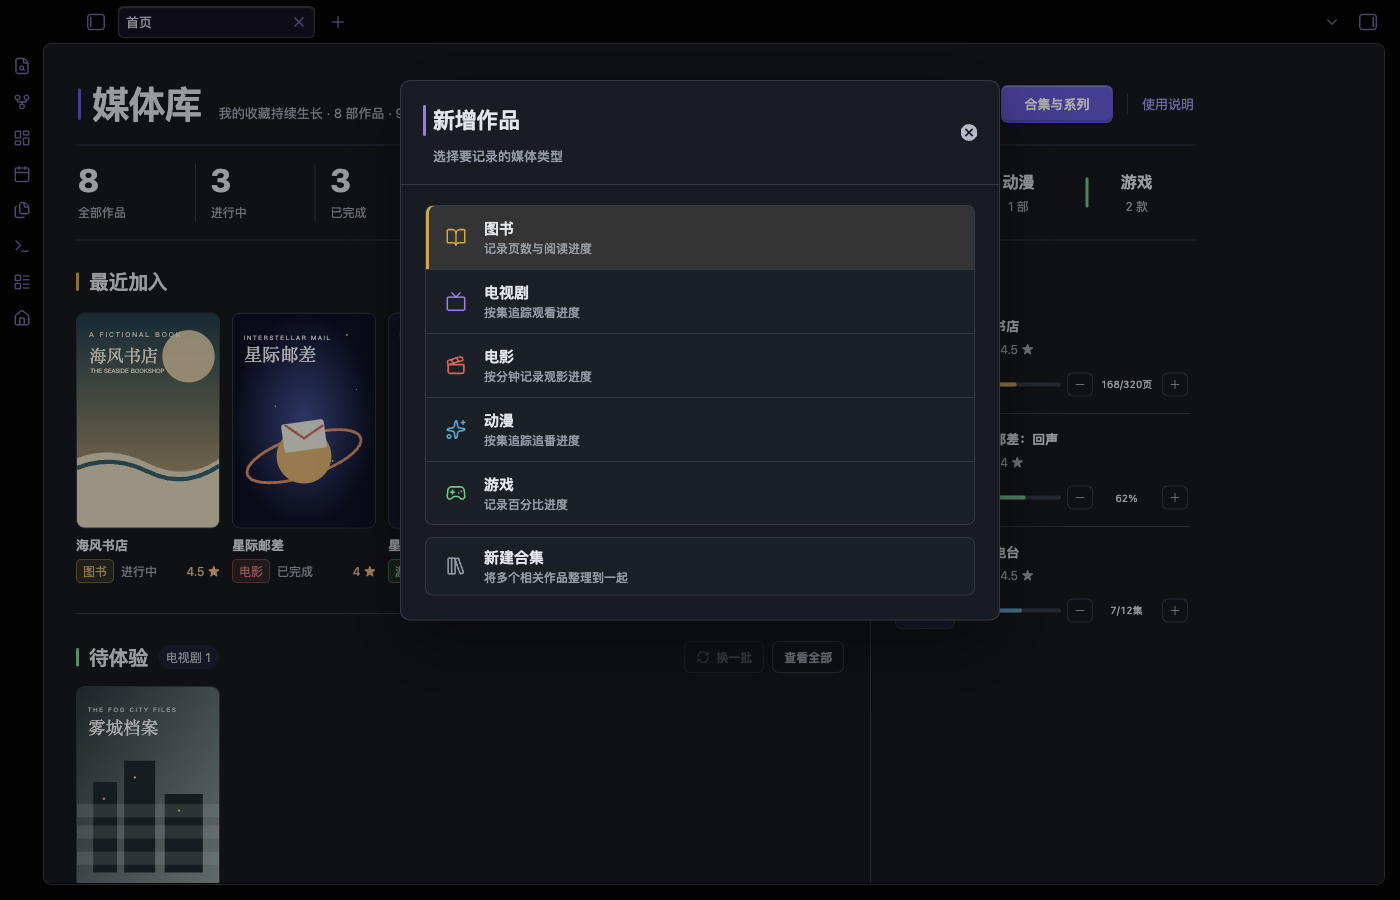
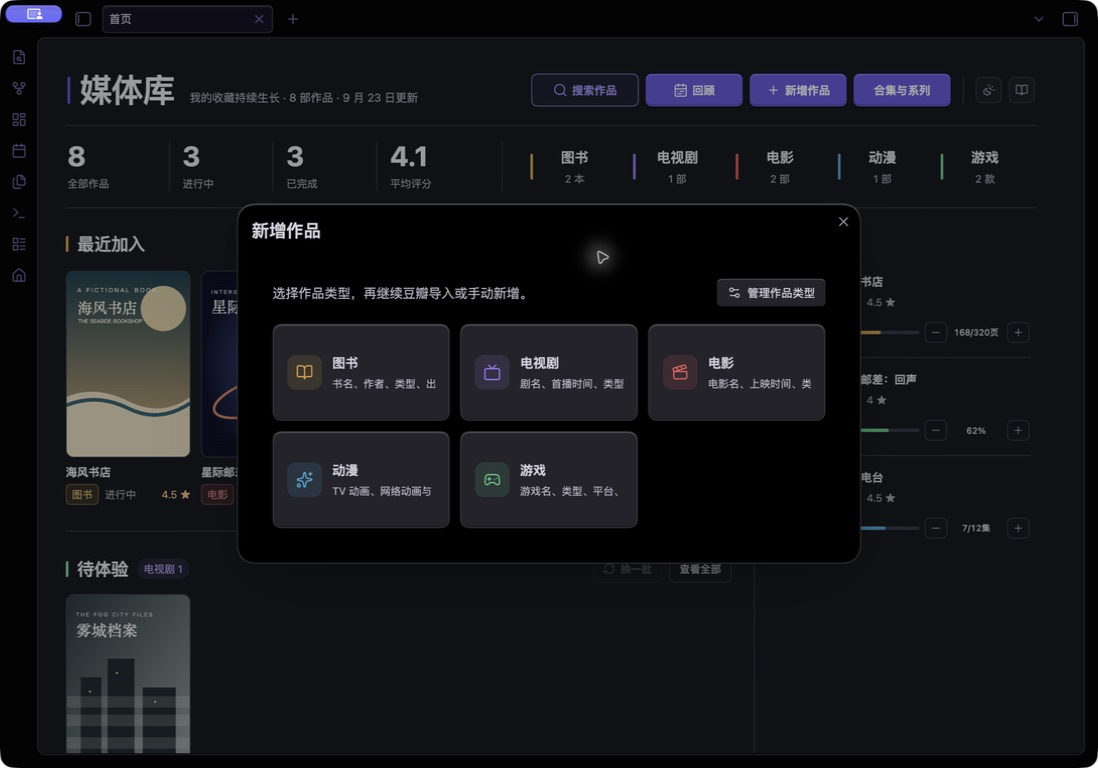
docs: refresh 1.4 interface previews

diff --git a/README.md b/README.md
@@ -53,6 +53,10 @@
 
 ![新增作品流程](docs/images/add-workflow.png)
 
+「管理作品类型」可按需启用综艺、纪录片，或隐藏不需要的默认类型：
+
+![作品类型管理](docs/images/media-type-management.png)
+
 ### 移动端
 
 <p align="center">
